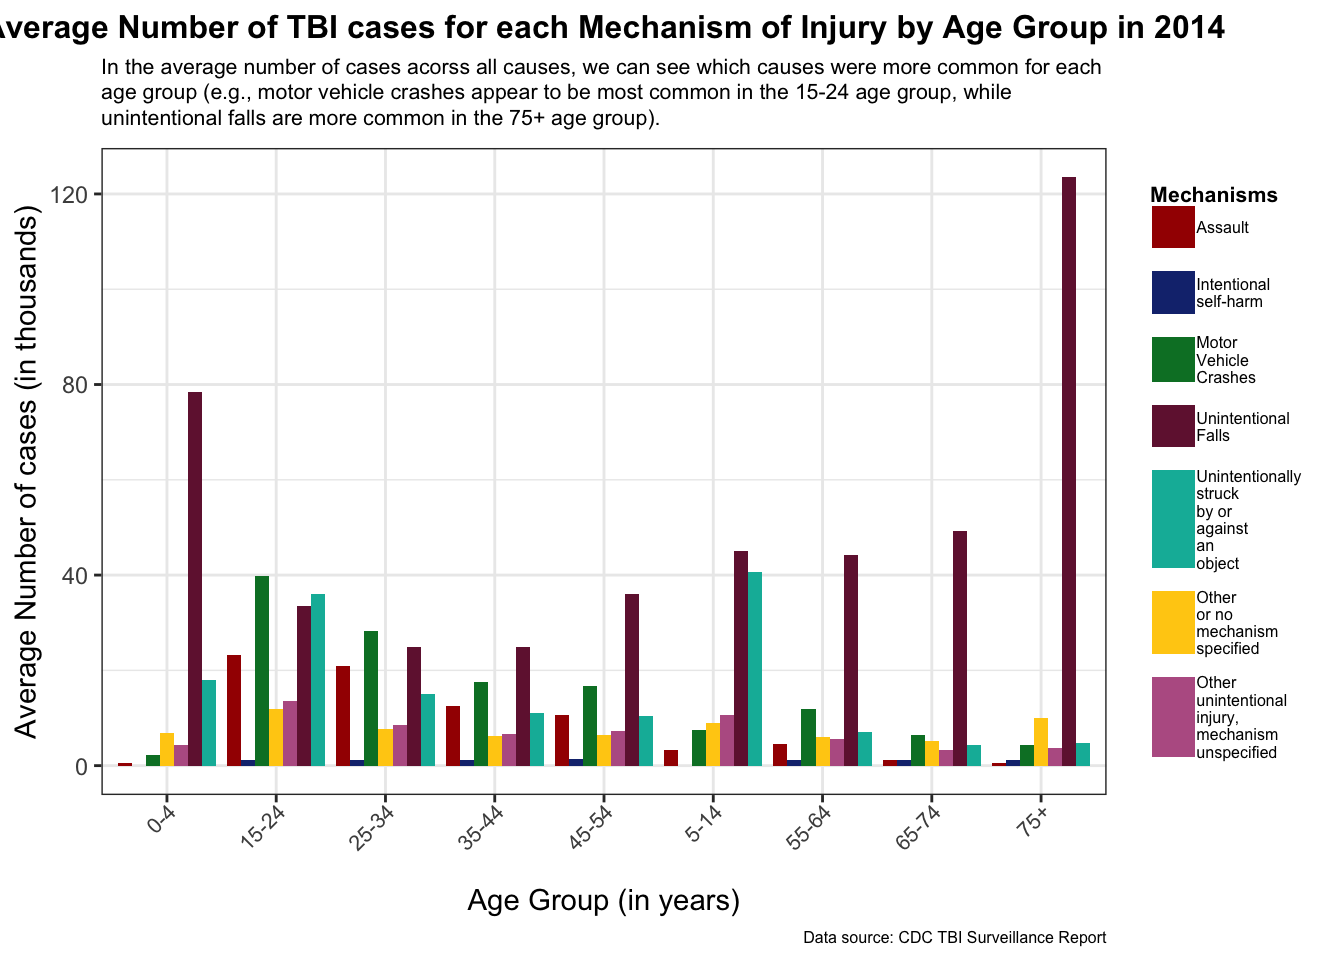
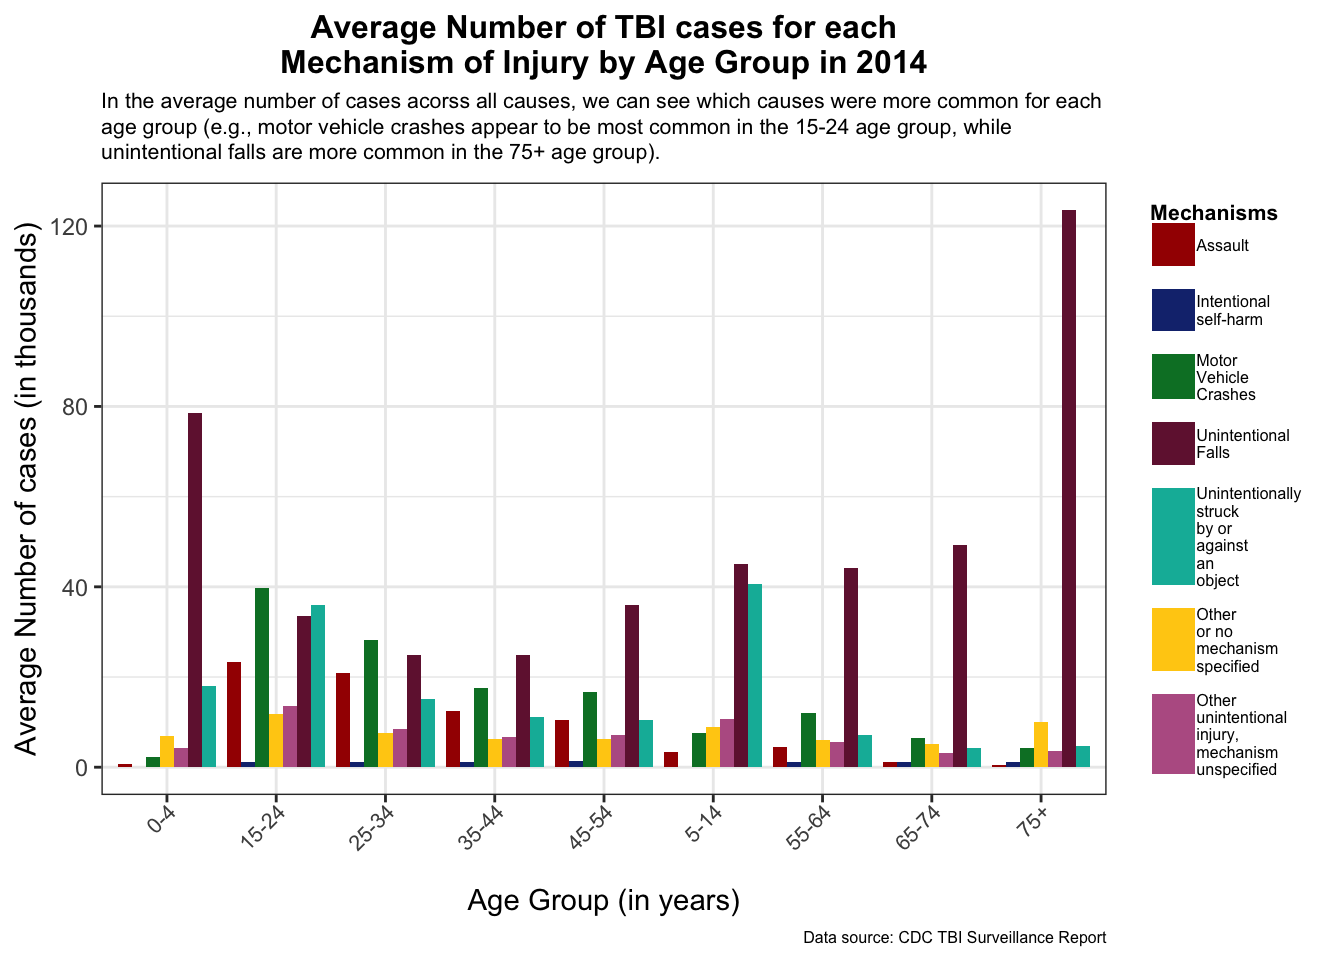
more edits before deployment

diff --git a/_site/example-analysis.html b/_site/example-analysis.html
@@ -512,7 +512,7 @@ Note
 <span id="cb8-10"><a href="#cb8-10" aria-hidden="true" tabindex="-1"></a><span class="co"># Bar chart for mean case numbers by outcome for each age group</span></span>
 <span id="cb8-11"><a href="#cb8-11" aria-hidden="true" tabindex="-1"></a><span class="fu">ggplot</span>(means_mech, <span class="fu">aes</span>(<span class="at">x =</span> age_group, <span class="at">y =</span> mean_cases)) <span class="sc">+</span></span>
 <span id="cb8-12"><a href="#cb8-12" aria-hidden="true" tabindex="-1"></a>  <span class="fu">geom_bar</span>(<span class="fu">aes</span>(<span class="at">fill =</span> injury_mechanism), <span class="at">stat =</span> <span class="st">"identity"</span>, <span class="at">position =</span> <span class="st">"dodge"</span>) <span class="sc">+</span></span>
-<span id="cb8-13"><a href="#cb8-13" aria-hidden="true" tabindex="-1"></a>  <span class="fu">labs</span>(<span class="at">title =</span> <span class="st">"Average Number of TBI cases for each Mechanism of Injury by Age Group in 2014"</span>,</span>
+<span id="cb8-13"><a href="#cb8-13" aria-hidden="true" tabindex="-1"></a>  <span class="fu">labs</span>(<span class="at">title =</span> <span class="st">"Average Number of TBI cases for each</span><span class="sc">\n</span><span class="st">Mechanism of Injury by Age Group in 2014"</span>,</span>
 <span id="cb8-14"><a href="#cb8-14" aria-hidden="true" tabindex="-1"></a>       <span class="at">subtitle =</span> <span class="st">"In the average number of cases acorss all causes, we can see which causes were more common for each age group (e.g., motor vehicle crashes appear to be most common in the 15-24 age group, while unintentional falls are more common in the 75+ age group)."</span>,</span>
 <span id="cb8-15"><a href="#cb8-15" aria-hidden="true" tabindex="-1"></a>       <span class="at">x =</span> <span class="st">"Age Group (in years)"</span>,</span>
 <span id="cb8-16"><a href="#cb8-16" aria-hidden="true" tabindex="-1"></a>       <span class="at">y =</span> <span class="st">"Average Number of cases (in thousands)"</span>,</span>
@@ -623,7 +623,7 @@ Note
 </div>
 </div>
 <div class="callout-body-container callout-body">
-<p>As a note, while this data set and analysis is limited, the differences in TBI incidence and outcomes across age groups and mechanisms of injury can serve to highlight health disparities that need to be addressed, especially with the potential rise in TBI cases over time. For more information on these disparities, you can got to CDC’s webpage on TBI and health disparities <span class="citation" data-cites="cdc2024">(<a href="#ref-cdc2024" role="doc-biblioref"><strong>cdc2024?</strong></a>)</span>.</p>
+<p>The differences in TBI incidence and outcomes across age groups and mechanisms of injury can serve to highlight health disparities that need to be addressed, especially with the potential rise in TBI cases over time. For more information on these disparities, you can got to the CDC’s webpage on TBI and health disparities <span class="citation" data-cites="cdc2025">(<a href="#ref-cdc2025" role="doc-biblioref">Disease Control and Prevention 2025</a>)</span>.</p>
 </div>
 </div>
 <div class="callout callout-style-default callout-important callout-titled">
@@ -663,6 +663,9 @@ Community, Data Science Learning. 2024. <span>“Tidy Tuesday: A Weekly Social D
 </div>
 <div id="ref-cdc2014" class="csl-entry" role="listitem">
 Disease Control, Centers for, and Prevention. 2014. <span>“Surveillance Report of Traumatic Brain Injury-Related Emergency Department Visits, Hospitalizations, and Deaths.”</span> <a href="https://www.cdc.gov/traumaticbraininjury/pdf/TBI-Surveillance-Report-FINAL_508.pdf">https://www.cdc.gov/traumaticbraininjury/pdf/TBI-Surveillance-Report-FINAL_508.pdf</a>.
+</div>
+<div id="ref-cdc2025" class="csl-entry" role="listitem">
+———. 2025. <span>“Traumatic Brain Injury &amp; Concussion: Health Disparities in TBI.”</span> <a href="https://www.cdc.gov/traumatic-brain-injury/health-equity/index.html">https://www.cdc.gov/traumatic-brain-injury/health-equity/index.html</a>.
 </div>
 <div id="ref-hopkins" class="csl-entry" role="listitem">
 Medicine, Johns Hopkins. n.d. <span>“Traumatic Brain Injury.”</span> <a href="https://www.hopkinsmedicine.org/health/conditions-and-diseases/traumatic-brain-injury">https://www.hopkinsmedicine.org/health/conditions-and-diseases/traumatic-brain-injury</a>.
